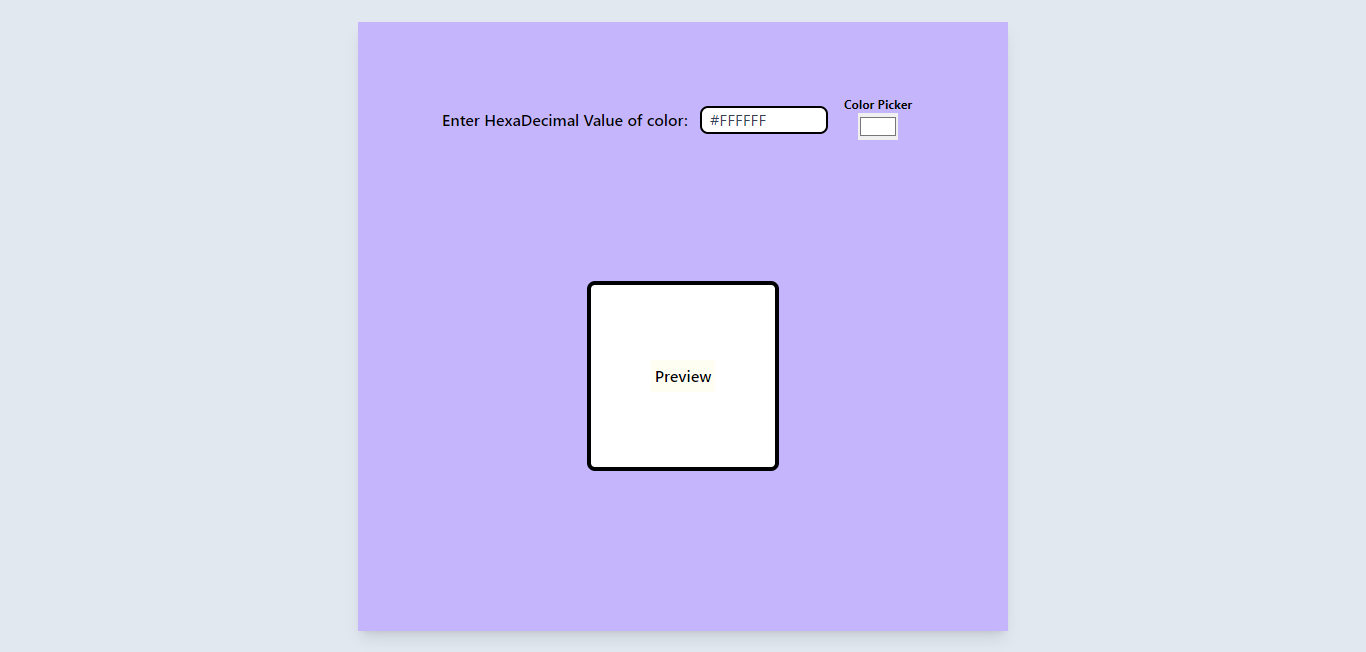
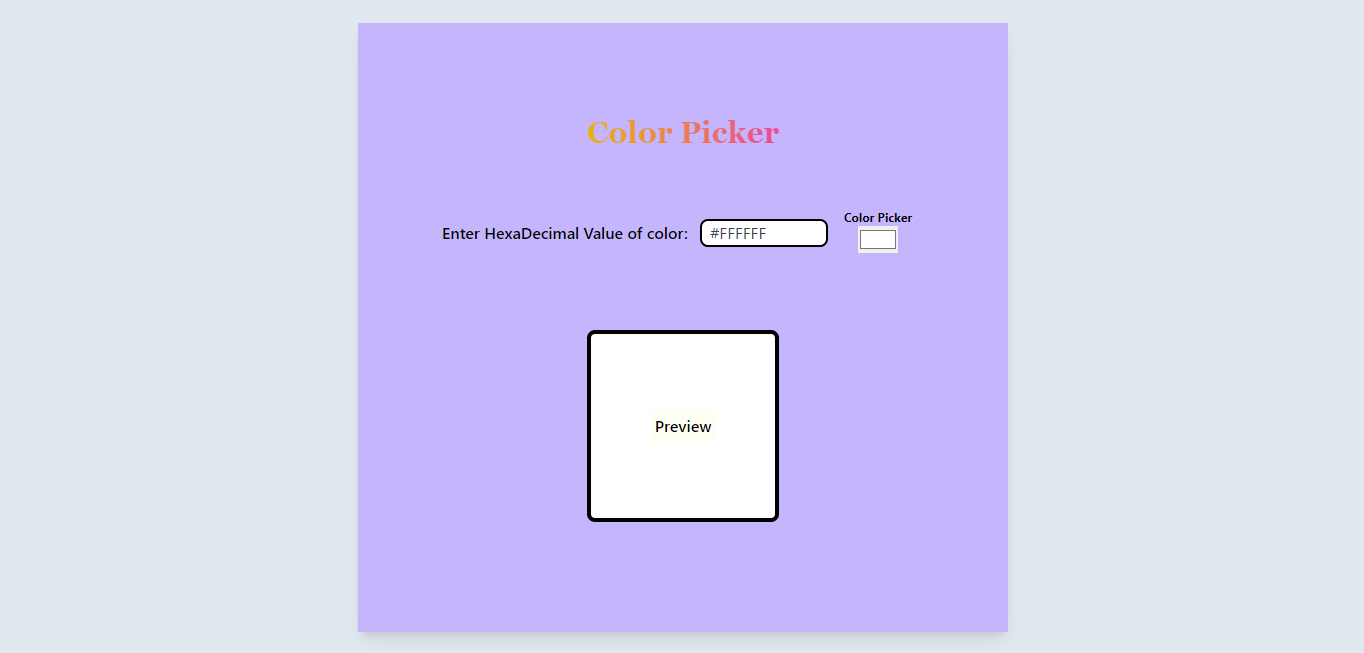
Add Updated Demo in readme

diff --git a/03-Color_Picker/src/App.jsx b/03-Color_Picker/src/App.jsx
@@ -23,8 +23,8 @@ function App() {
 
 
   return (
-    <div className='w-full bg-slate-200 p-6 flex  place-content-center h-screen'>
-      <form className='bg-violet-300 p-20 shadow-lg w-max'>
+    <div className='w-full bg-slate-200 p-10 flex  place-content-center h-screen md:max-vh'>
+      <form className='bg-violet-300 p-5 shadow-lg w-max h-max'>
         <h1 className=' bg-gradient-to-r from-orange-500 from-10% via-yellow-500 via-30%  to-pink-500 to-70% mb-16 text-transparent bg-clip-text text-center my-3 font-extrabold font-serif text-3xl'>Color Picker</h1>
         <div className='flex items-center'>
           <label className='font-semibold mx-1' htmlFor="colorinput">Enter HexaDecimal Value of color:</label>
@@ -39,7 +39,7 @@ function App() {
         </div>
         <p className='text-red-600 underline my-4 text-center font-bold'>{error}</p>
         <p className='text-red-600 underline my-4 text-center font-semibold'>{note}</p>
-        <div className='h-48 w-48 border-4 border-black my-20 rounded-lg mx-auto flex justify-center items-center font-semibold ' style={{backgroundColor: color}}>
+        <div className='h-48 w-48 border-4 border-black my-20 rounded-lg mx-auto flex justify-center items-center font-semibold' style={{backgroundColor: color}}>
           <p className='bg-yellow-100 p-1 bg-opacity-20'>Preview</p>
         </div>
       </form>
